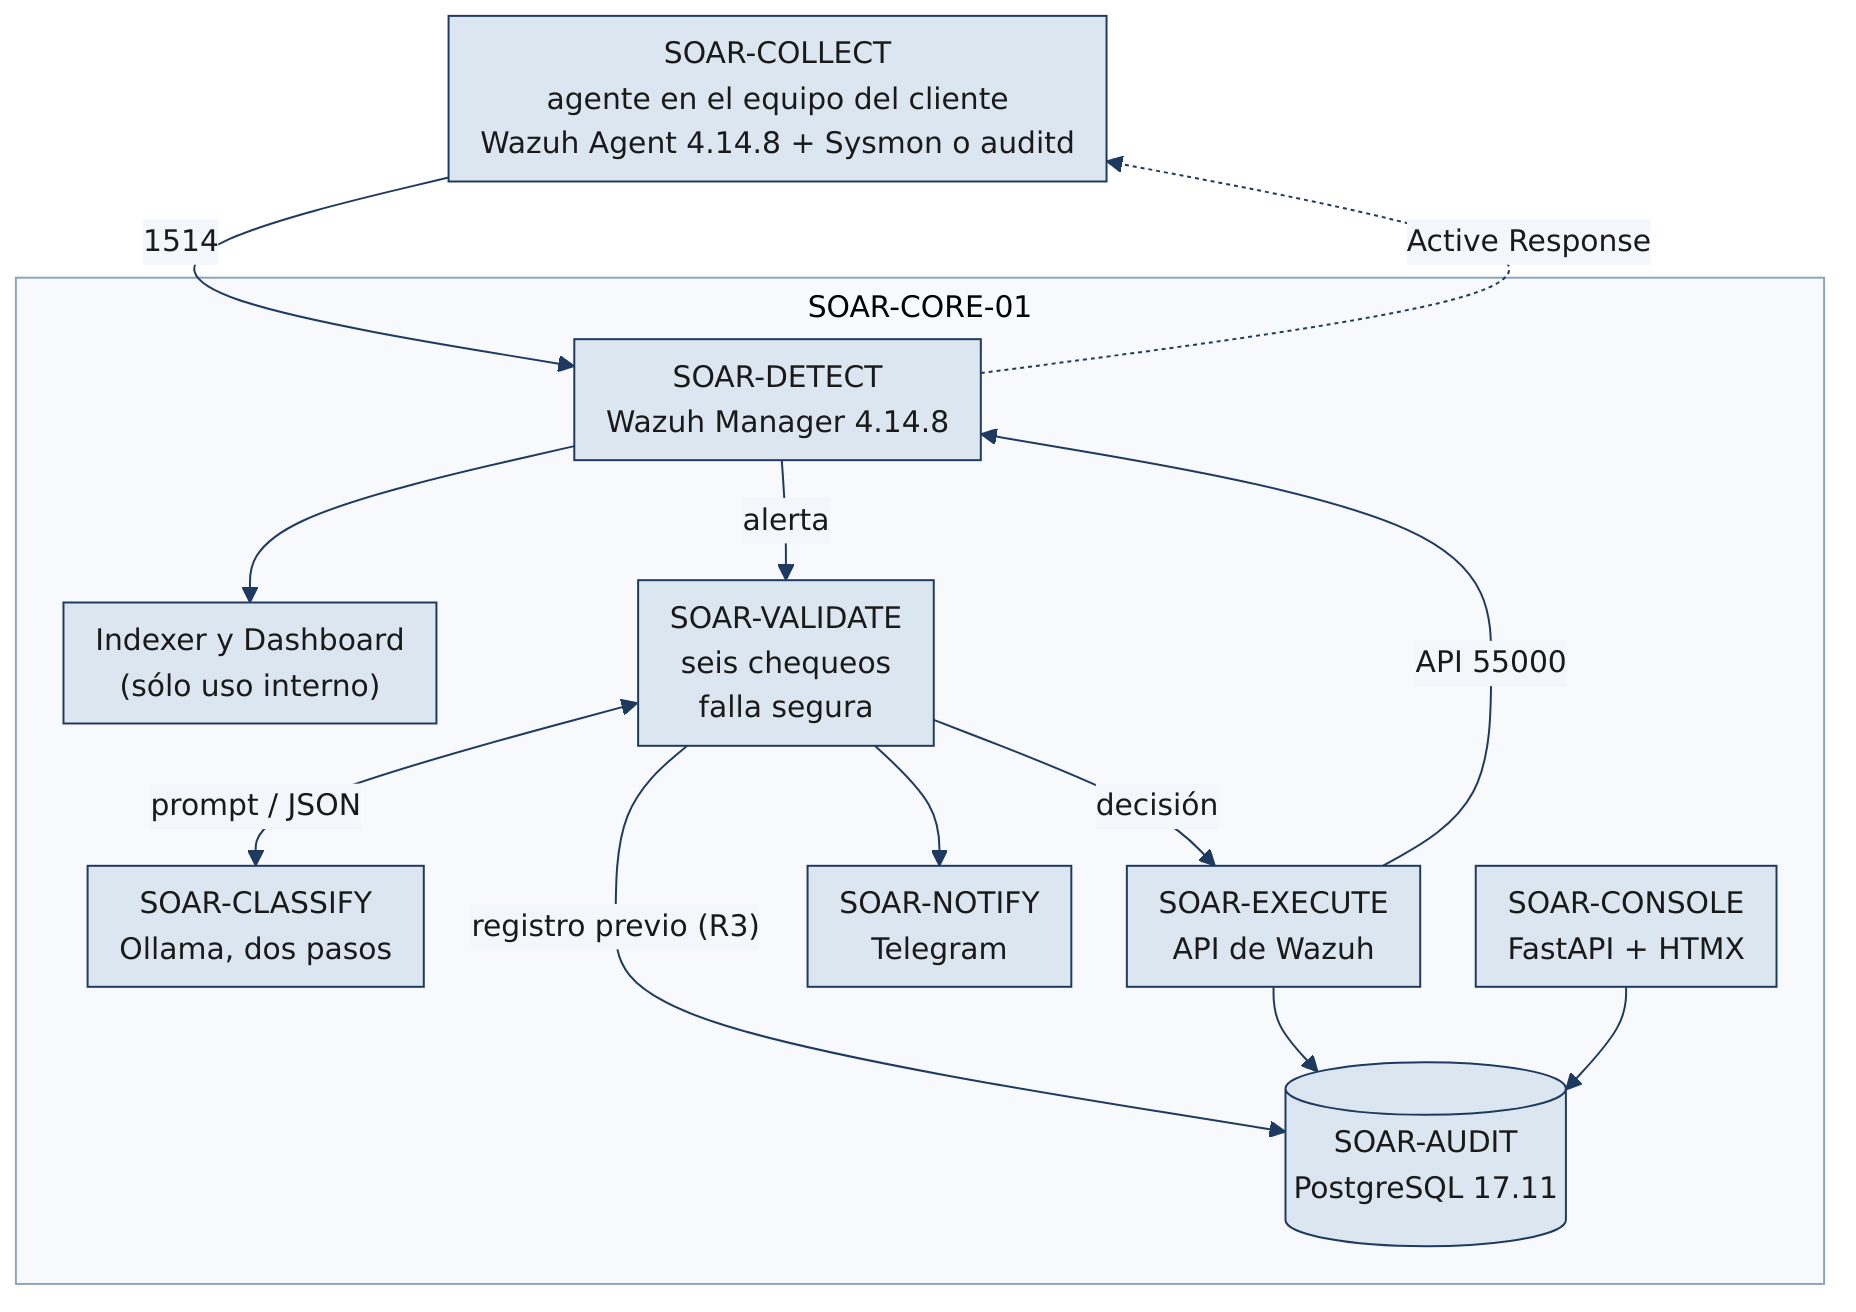
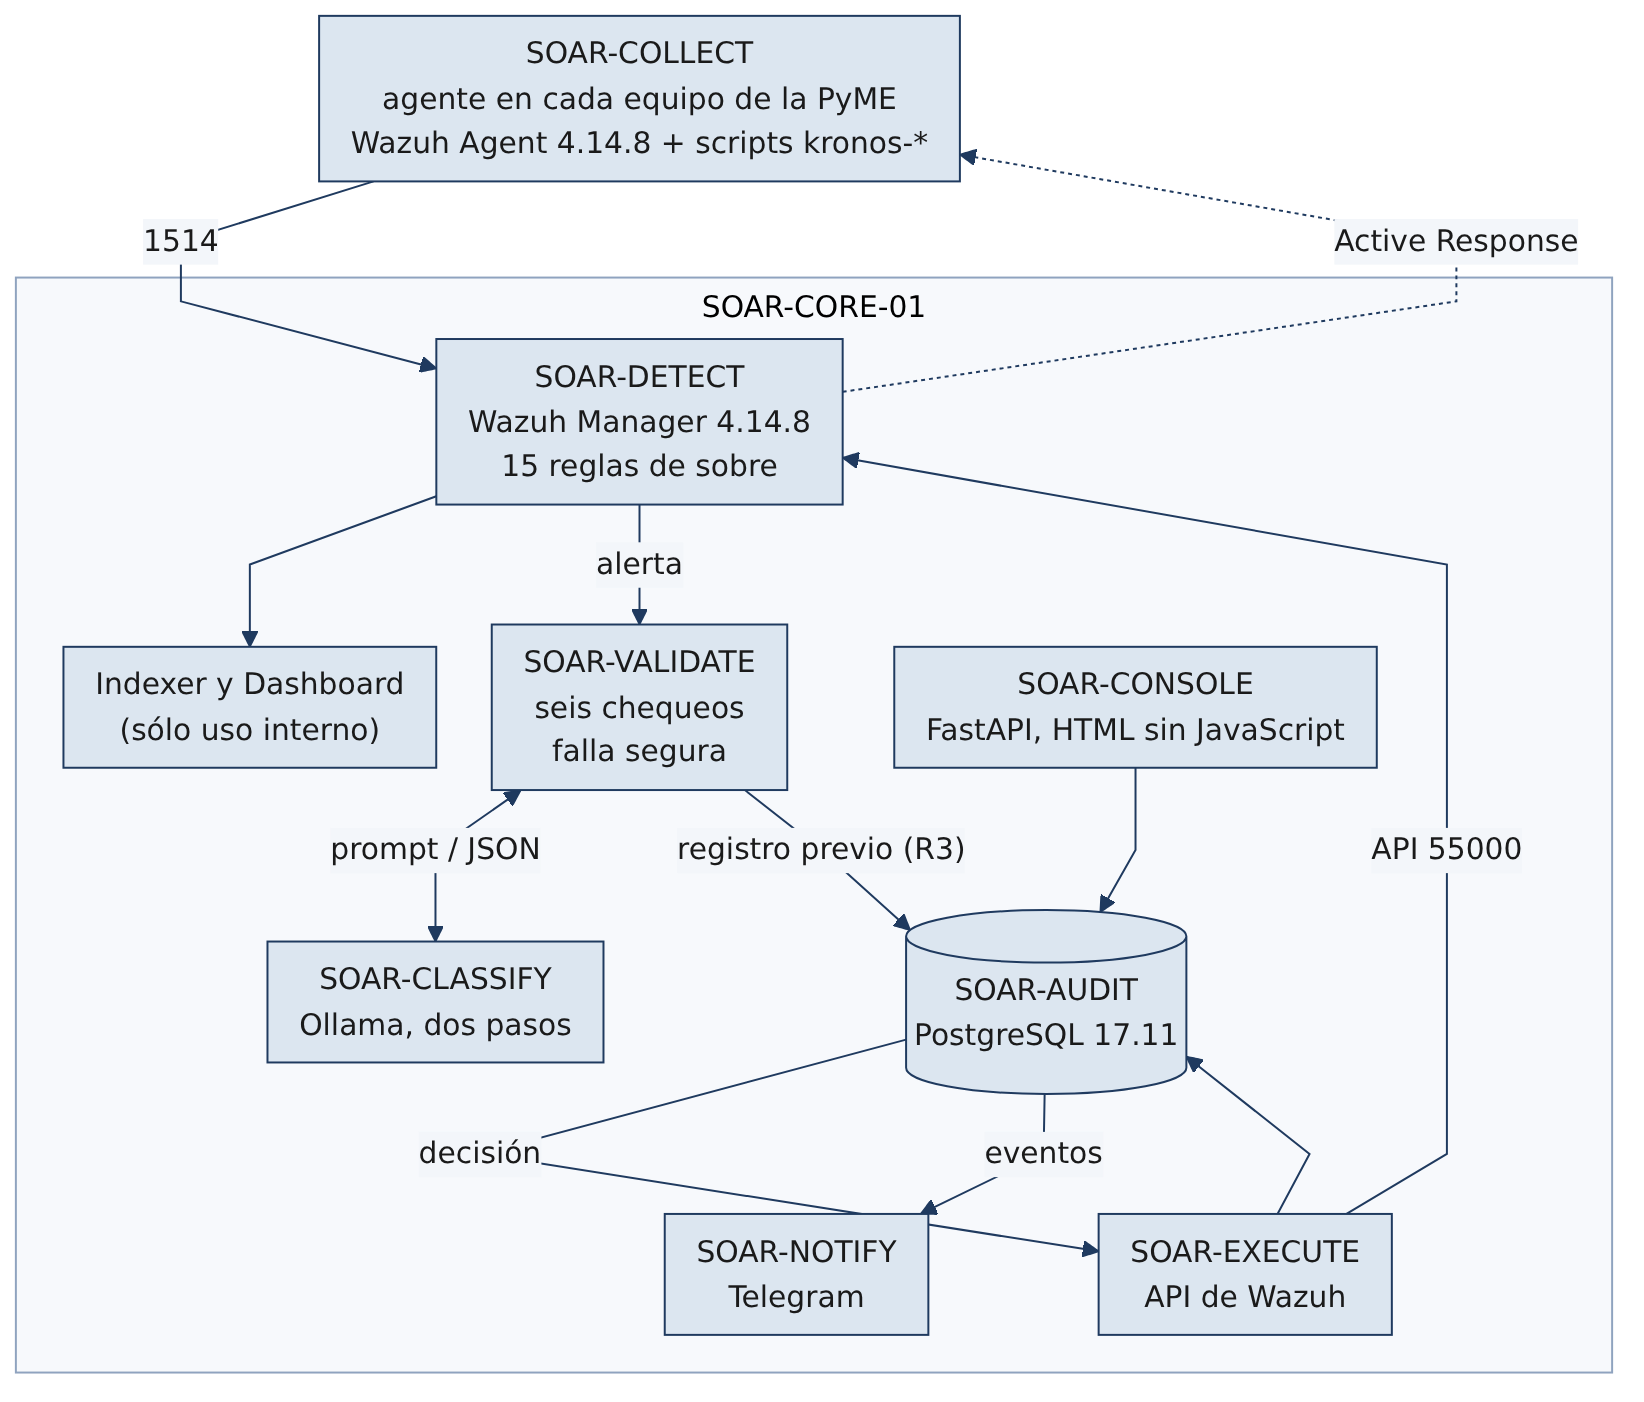
docs(diagramas): al día con la v1.0 y el replanteamiento PyME
- 09_despliegue: los servicios ya corren (VALIDATE, EXECUTE, NOTIFY, CONSOLE),
  Ollama, temporizadores de respaldo y purga; consola por NetBird.
- 15_ambientes: sin la farmacia ni cifras viejas; integración en el CI, escenarios
  E1 a E7 y la PyME simulada.
- 19_respaldo: temporizadores reales, age, probar_restauracion.sh (15-10) y purga.
- 02_casos_uso, 02_tratamiento_niveles, 09_contexto y 17_zonas_confianza: el
  encargado de TI de la PyME; D-34 ya decidida; nivel 0 sin comando (D-50).
- 09_componentes: la consola es HTML sin JavaScript (no HTMX).
- 14_flujo_ci, 05_ramas y 03_ciclo_trabajo: checks actuales, D-54 y main sólo con
  versiones (el modelo anterior no se cumplió).
- 04_cronograma: replanteamiento, cierre de la v1.0, estudio y defensa.
- README: cada figura con su documento de los 31.

diff --git a/docs/diagramas/README.md b/docs/diagramas/README.md
@@ -1,36 +1,46 @@
 # Diagramas
 
-Fuente Mermaid (`.mmd`) e imagen (`.png`) de cada figura de los documentos de `docs/entregables/`.
-El prefijo del archivo es el número del documento que contiene la figura.
+Fuente Mermaid (`.mmd`) e imagen (`.png`) de cada figura. La fuente es la que vale: la imagen se genera desde
+ella y nunca se edita a mano.
 
-| Archivo | Figura | Documento |
+El prefijo del archivo es el número que tenía la figura en los documentos de la entrega del 16-10 (hoy en
+`docs/archivo/`). La última columna dice en cuál de los 31 documentos del proyecto se usa.
+
+| Archivo | Figura | Documentos (de los 31) |
 | :--- | :--- | :--- |
-| `02_casos_uso` | Casos de uso del sistema y sus actores | 02 |
-| `02_tratamiento_niveles` | Tratamiento de una decisión según su nivel | 02 |
-| `02_estados_ticket` | Estados del ticket | 02 |
-| `02_estados_cortacircuito` | Estados del cortacircuito | 02 |
-| `03_ciclo_trabajo` | Ciclo de trabajo de un sprint | 03 |
-| `04_cronograma` | Calendario de los sprints | 04 |
-| `05_ramas` | Modelo de ramas del repositorio | 05 |
-| `06_no_conformidades` | Tratamiento de una no conformidad | 06 |
-| `09_contexto` | Contexto de Kronos AI | 09 |
-| `09_componentes` | Componentes | 09 |
-| `09_dependencias_r1` | Regla de dependencias R1 | 09 |
-| `09_despliegue` | Despliegue en SOAR-CORE-01 | 09 |
-| `09_flujo_alerta` | Flujo de una alerta | 09 |
-| `11_dos_pasos` | Clasificación en dos pasos | 11 |
-| `14_flujo_ci` | Flujo de un cambio hasta `develop` y `main` | 14 |
-| `15_ambientes` | Niveles y ambientes de prueba | 15 |
-| `17_zonas_confianza` | Zonas de confianza | 17 |
-| `19_respaldo` | Flujo del respaldo | 19 |
-| `20_ciclo_secretos` | Ciclo de vida de un secreto | 20 |
+| `02_casos_uso` | Casos de uso: encargado de TI, equipo Kronos, agente y temporizador | 2.5 Casos de uso |
+| `02_tratamiento_niveles` | Tratamiento de una decisión según su nivel | 2.2 Procesos TO-BE, 4.2 Trazabilidad y HITL |
+| `02_estados_ticket` | Estados del ticket | 2.3 ERS, 3.1 Arquitectura |
+| `02_estados_cortacircuito` | Estados del cortacircuito | 4.1 Motor de IA, 6.5 Carga y estrés |
+| `03_ciclo_trabajo` | Ciclo de trabajo de un sprint | 1.4 Metodología Scrum |
+| `04_cronograma` | Sprints, cierre y defensa | 1.3 Carta Gantt |
+| `05_ramas` | Modelo de ramas y versiones | 6.1 Plan de calidad |
+| `06_no_conformidades` | Tratamiento de una no conformidad | 6.1 Plan de calidad |
+| `09_contexto` | Contexto de Kronos AI | 3.1 Arquitectura |
+| `09_componentes` | Componentes | 3.1 Arquitectura |
+| `09_dependencias_r1` | Regla de dependencias R1 | 3.1 Arquitectura, 6.1 Plan de calidad |
+| `09_despliegue` | Despliegue en SOAR-CORE-01 | 3.1 Arquitectura, 3.2 Infraestructura |
+| `09_flujo_alerta` | Flujo de una alerta | 2.2 Procesos TO-BE, 3.1 Arquitectura |
+| `11_dos_pasos` | Clasificación en dos pasos | 4.1 Motor de IA |
+| `14_flujo_ci` | Flujo de un cambio hasta `develop` y `main` | 6.1 Plan de calidad |
+| `15_ambientes` | Niveles y ambientes de prueba | 6.2 Plan maestro de pruebas |
+| `17_zonas_confianza` | Zonas de confianza | 5.1 Modelado de amenazas |
+| `19_respaldo` | Respaldo, copia fuera del servidor, restauración y purga | 3.2 Infraestructura y DRP |
+| `20_ciclo_secretos` | Ciclo de vida de un secreto | 5.5 Mínimo privilegio y secretos |
 
 ## Cómo regenerar las imágenes
 
-Con Docker, desde esta carpeta (`mermaid.json` fija el tema y los colores):
+`mermaid.json` fija el tema y los colores. Desde esta carpeta, con Docker:
 
 ```bash
 docker run --rm -v "$PWD:/data" minlag/mermaid-cli:11.4.2 -i /data/09_flujo_alerta.mmd -o /data/09_flujo_alerta.png -s 2 -w 2400 -b white -c /data/mermaid.json
 ```
 
-El cronograma (`04_cronograma`) se genera con `-w 800`. Después de cambiar una imagen hay que volver a insertarla en el documento Word que la usa.
+o con mermaid-cli instalado (`npm install -g @mermaid-js/mermaid-cli`):
+
+```bash
+mmdc -i 09_flujo_alerta.mmd -o 09_flujo_alerta.png -s 2 -w 2400 -b white -c mermaid.json
+```
+
+El cronograma (`04_cronograma`) se genera con `-w 800`. Después de cambiar una imagen hay que volver a insertarla
+en el documento que la usa.
